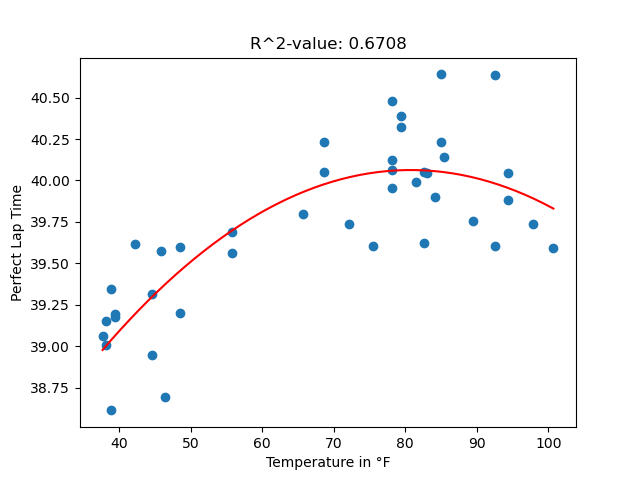
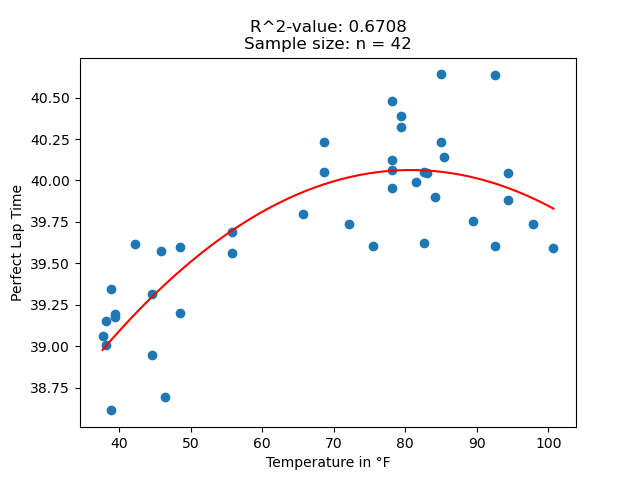
Sample Size Addition

Changed region(s): [[0.375, 0.0312, 0.6562, 0.125]]

diff --git a/backend/processing.py b/backend/processing.py
@@ -48,7 +48,7 @@ def doCalculation(date: str, time: str):
     regressionX = linspace(37.7, 100.7)
     plot(regressionX, mymodel(regressionX), color='red')
     
-    title('R^2-value: ' + str(round(r2_score(y, mymodel(x)), 4)))
+    title('R^2-value: ' + str(round(r2_score(y, mymodel(x)), 4)) + '\nSample size: n = ' + str(len(y)))
     xlabel('Temperature in °F')
     ylabel('Perfect Lap Time')
     show()
@@ -66,5 +66,5 @@ def doCalculation(date: str, time: str):
 
 '''
 if __name__ == '__main__':
-    print(doCalculation('2023-10-13', '12:05'))
+    print(doCalculation('2023-11-13', '12:05'))
 '''
